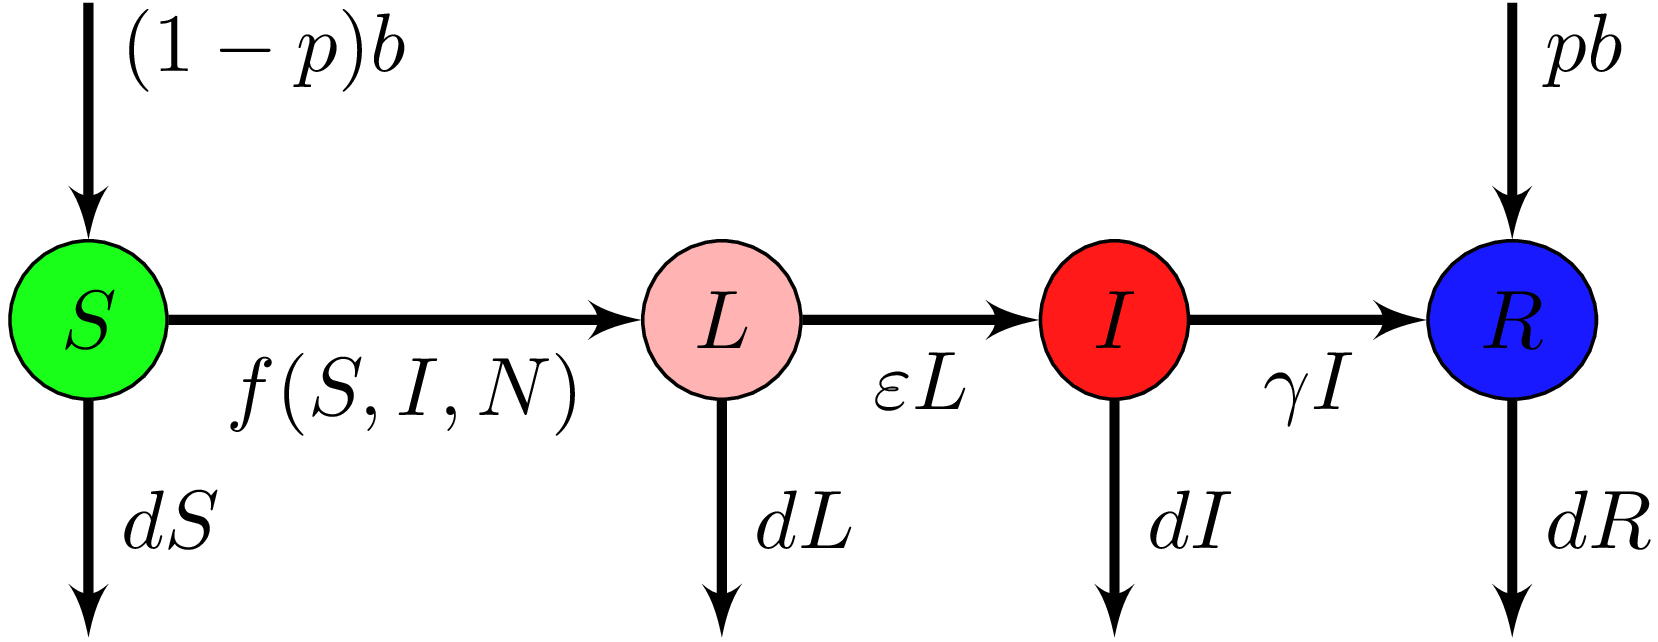
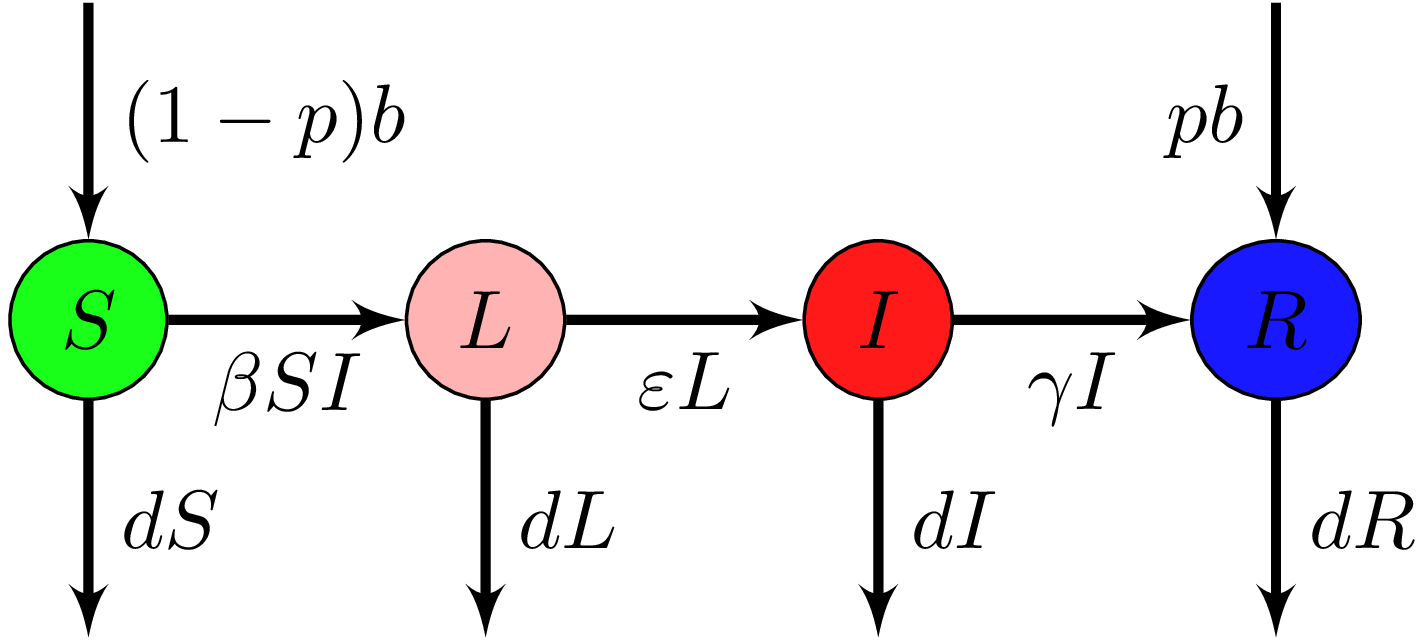
Update

diff --git a/FIGS/SLIRS_constantbirth_and_vacc.tex b/FIGS/SLIRS_constantbirth_and_vacc.tex
@@ -18,7 +18,7 @@ minimum height=2em]
 	cloud/.style={minimum width={width("N-1")+2pt},
 		draw, ellipse,fill=gray!20}]
     \node [cloud, fill=green!90] (S) {$S$};
-    \node [cloud, right=2cm of S, fill=red!30] (L) {$L$};
+    \node [cloud, right=of S, fill=red!30] (L) {$L$};
 	\node [cloud, right=of L, fill=red!90] (I) {$I$};
 	\node [cloud, right=of I, fill=blue!90] (R) {$R$};
     \node [cloud, above=of S, draw=none, fill=white] (bS) {};
@@ -28,12 +28,12 @@ minimum height=2em]
     \node [cloud, below=of I, draw=none, fill=white] (dI) {}; 
     \node [cloud, below=of R, draw=none, fill=white] (dR) {}; 
 	%% Arrows
-	\path [line, very thick] (S) to node [midway, below] (TextNode) {$f(S,I,N)$} (L);
+	\path [line, very thick] (S) to node [midway, below] (TextNode) {$\beta SI$} (L);
 	\path [line, very thick] (L) to node [midway, below] (TextNode) {$\varepsilon L$} (I);
 	\path [line, very thick] (I) to node [midway, below] (TextNode) {$\gamma I$} (R);
 	%% Birth and death
-	\path [line, very thick] (bS) to node [pos=0.2, right] (TextNode) {$(1-p)b$} (S);
-	\path [line, very thick] (bR) to node [pos=0.2, right] (TextNode) {$pb$} (R);
+	\path [line, very thick] (bS) to node [right] (TextNode) {$(1-p)b$} (S);
+	\path [line, very thick] (bR) to node [left] (TextNode) {$pb$} (R);
     \path [line, very thick] (S) to node [midway, right] (TextNode) {$dS$} (dS);
     \path [line, very thick] (L) to node [midway, right] (TextNode) {$dL$} (dL);
     \path [line, very thick] (I) to node [midway, right] (TextNode) {$dI$} (dI);
